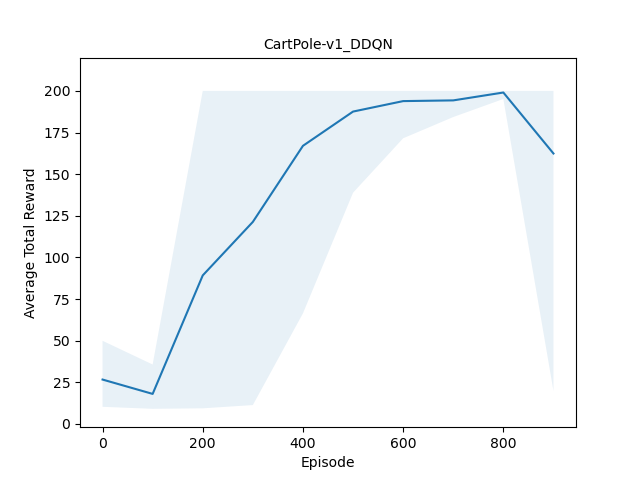
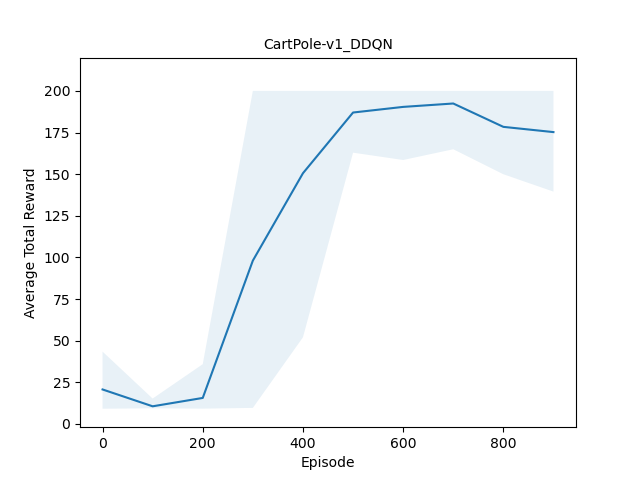
Fixed DDQN in Hw2, should use online network to select best action at the next state.

diff --git a/F25HW2/dqn.py b/F25HW2/dqn.py
@@ -143,9 +143,11 @@ class DeepQNetwork(nn.Module):
         # Compute targets (Double DQN vs DQN)
         with torch.no_grad():
             if self.double_dqn:
-                # Use online network to pick the best next action
-                best_actions = torch.argmax(q_values, dim=-1)
-                next_q = target_q_values.gather(1, best_actions.unsqueeze(1)).squeeze(1)
+                # Use online network to pick the best next action (You should take the q values from our online network at the next state and then do arg max on that so our online network is responsible for action selection)
+                # Online network selects the best action for next states
+                online_next_q = self.q_net(new_states_tensor)
+                best_actions = torch.argmax(online_next_q, dim=-1) 
+                next_q = target_q_values.gather(1, best_actions.unsqueeze(1)).squeeze(1) # target network evaluates this action
             else:
                 # Regular DQN: take max Q-value from target network
                 next_q = torch.max(target_q_values, dim=-1)[0]
